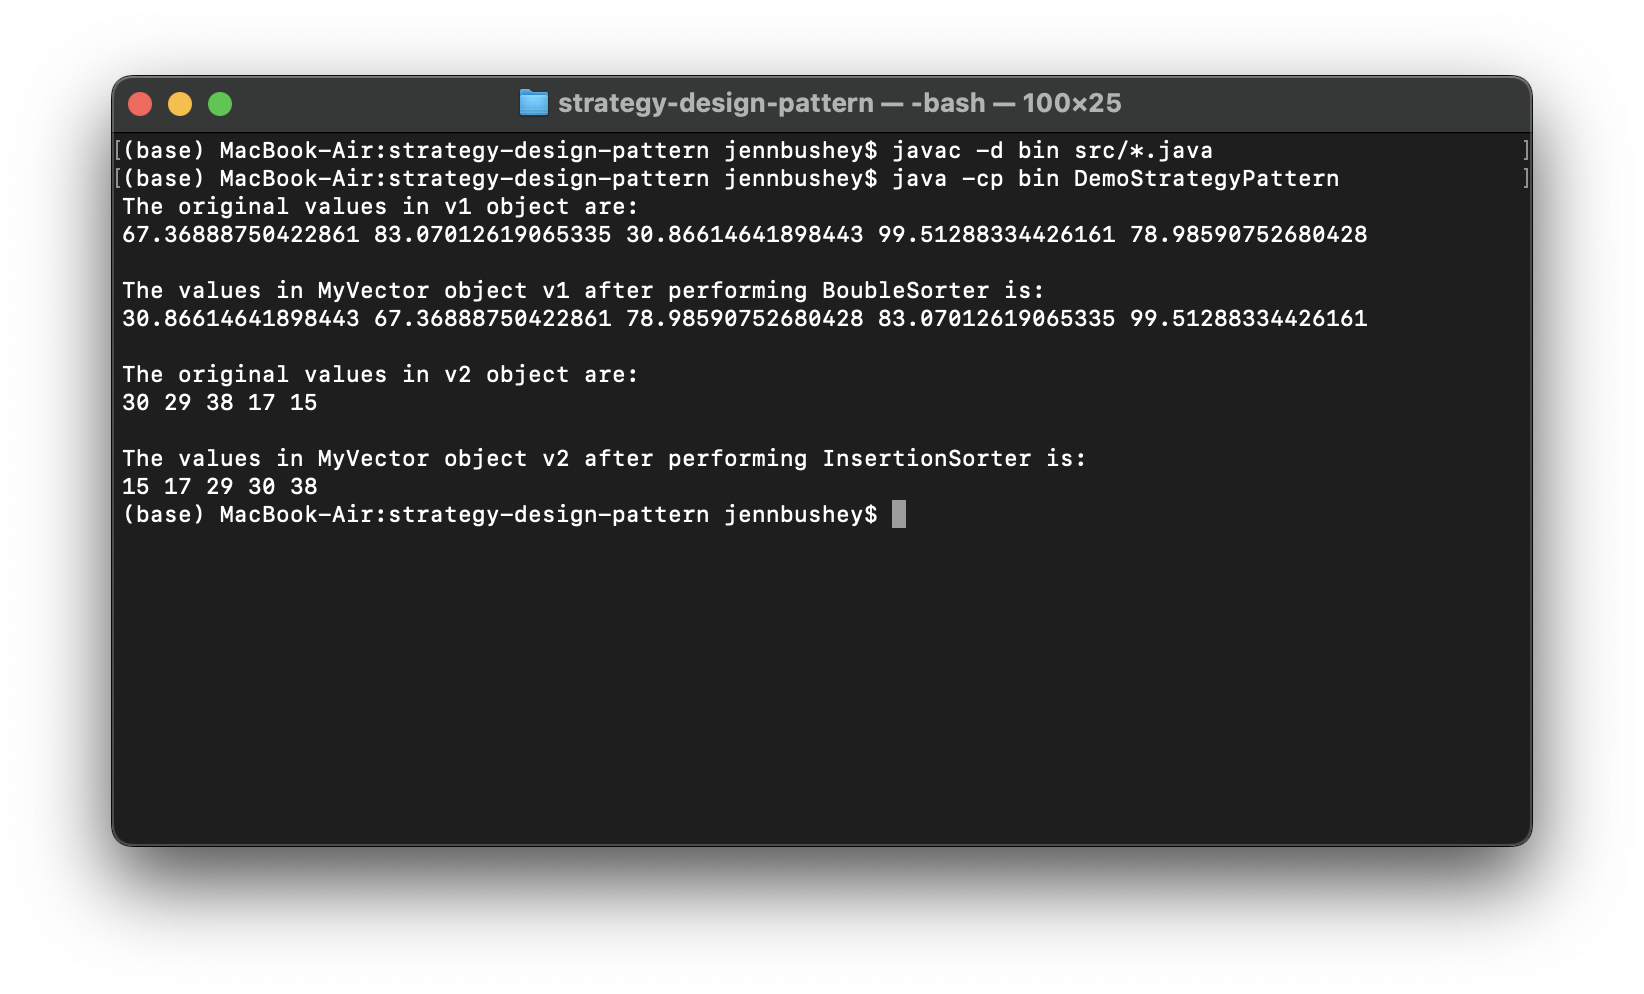
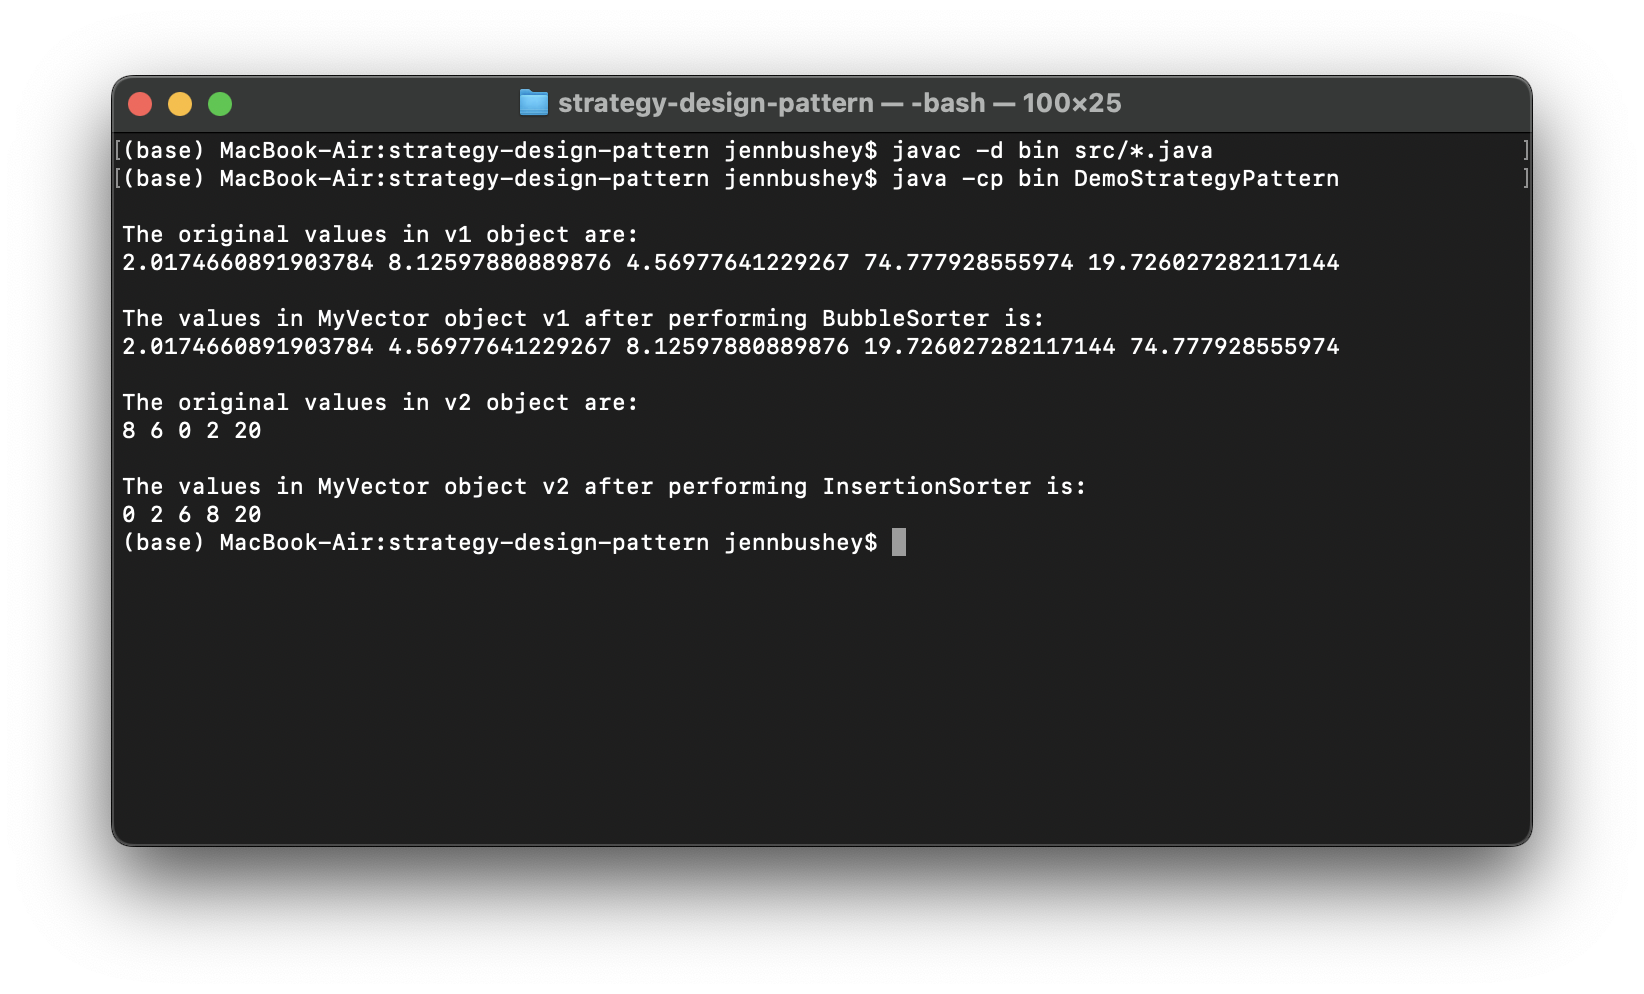
minor updates

Changed region(s): [[0.062, 0.1871, 0.8376, 0.5614]]

diff --git a/strategy-design-pattern/src/DemoStrategyPattern.java b/strategy-design-pattern/src/DemoStrategyPattern.java
@@ -4,51 +4,53 @@
  * Completed by: Jenn Bushey
  * Submission Date: November 10, 2023
  */
- 
+
 import java.util.Random;
+
 public class DemoStrategyPattern {
-	public static void main(String[] args) {
-		// Create an object of MyVector<Double> with capacity of 50 elements
-		MyVector<Double> v1 = new MyVector<Double> (50);
-		
-		// Create a Random object to generate values between 0
-		Random rand = new Random();  
-       
-		// adding 5 randomly generated numbers into MyVector object v1
-	   for(int i = 4; i >=0; i--) {
-		   Item<Double> item;
-		   item = new Item<Double> (Double.valueOf(rand.nextDouble()*100));
-		  v1.add(item);
-	   }
-	   
-	    // displaying original data in MyVector v1
-       System.out.println("The original values in v1 object are:");
-		v1.display();
-		
-		// choose algorithm bubble sort as a strategy to sort object v1
-		v1.setSortStrategy(new BubbleSorter<Double>());
-		
-		// perform algorithm bubble sort to v1 
-		v1.performSort();
-		
-        System.out.println("\nThe values in MyVector object v1 after performing BoubleSorter is:");
-		v1.display();
-		
-		// create a MyVector<Integer> object V2 
-		MyVector<Integer> v2 = new MyVector<Integer> (50);
-		
-		// populate v2 with 5 randomly generated numbers
-		for(int i = 4; i >=0; i--) {
-			Item<Integer> item;
-			item = new Item<Integer> (Integer.valueOf(rand.nextInt(50)));
-			v2.add(item);
-			}
-		   
-	        System.out.println("\nThe original values in v2 object are:");
-			v2.display();
-			v2.setSortStrategy(new InsertionSorter<Integer>());;
-			v2.performSort();
-	        System.out.println("\nThe values in MyVector object v2 after performing InsertionSorter is:");
-			v2.display();	
-	}
+    public static void main(String[] args) {
+        // Create an object of MyVector<Double> with capacity of 50 elements
+        MyVector<Double> v1 = new MyVector<Double>(50);
+
+        // Create a Random object to generate values between 0
+        Random rand = new Random();
+
+        // adding 5 randomly generated numbers into MyVector object v1
+        for (int i = 4; i >= 0; i--) {
+            Item<Double> item;
+            item = new Item<Double>(Double.valueOf(rand.nextDouble() * 100));
+            v1.add(item);
+        }
+
+        // displaying original data in MyVector v1
+        System.out.println("\nThe original values in v1 object are:");
+        v1.display();
+
+        // choose algorithm bubble sort as a strategy to sort object v1
+        v1.setSortStrategy(new BubbleSorter<Double>());
+
+        // perform algorithm bubble sort to v1
+        v1.performSort();
+
+        System.out.println("\nThe values in MyVector object v1 after performing BubbleSorter is:");
+        v1.display();
+
+        // create a MyVector<Integer> object V2
+        MyVector<Integer> v2 = new MyVector<Integer>(50);
+
+        // populate v2 with 5 randomly generated numbers
+        for (int i = 4; i >= 0; i--) {
+            Item<Integer> item;
+            item = new Item<Integer>(Integer.valueOf(rand.nextInt(50)));
+            v2.add(item);
+        }
+
+        System.out.println("\nThe original values in v2 object are:");
+        v2.display();
+        v2.setSortStrategy(new InsertionSorter<Integer>());
+        ;
+        v2.performSort();
+        System.out.println("\nThe values in MyVector object v2 after performing InsertionSorter is:");
+        v2.display();
+    }
 }
